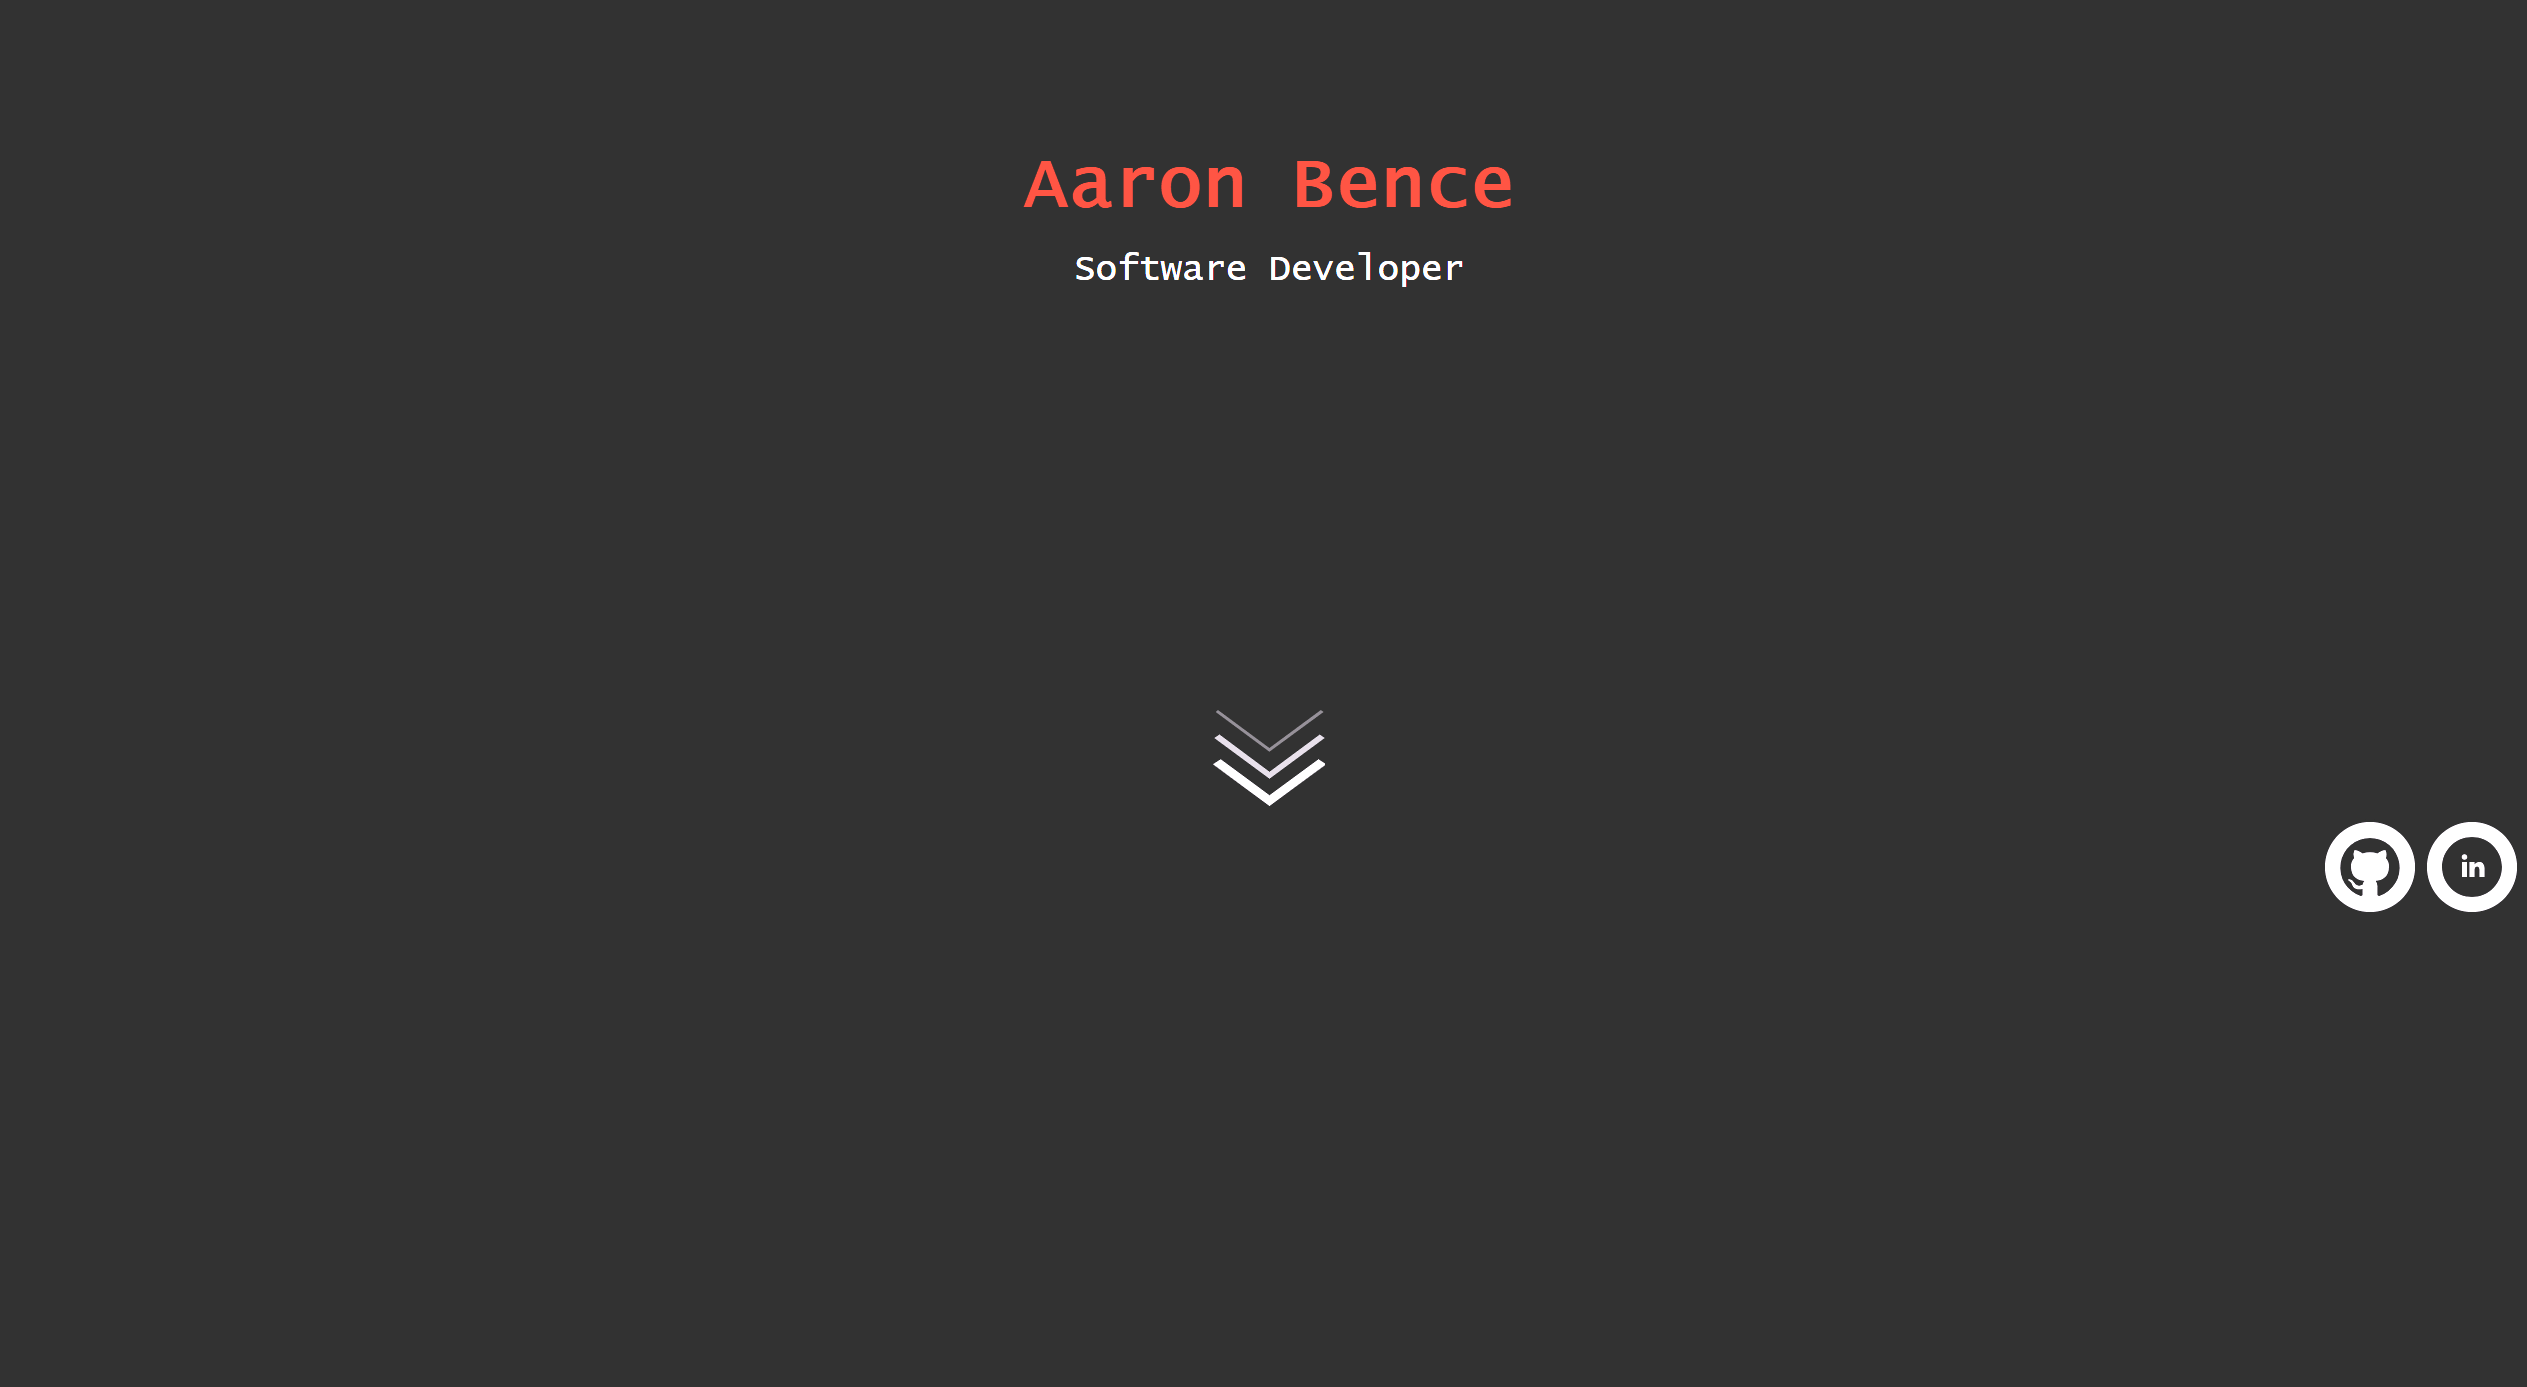
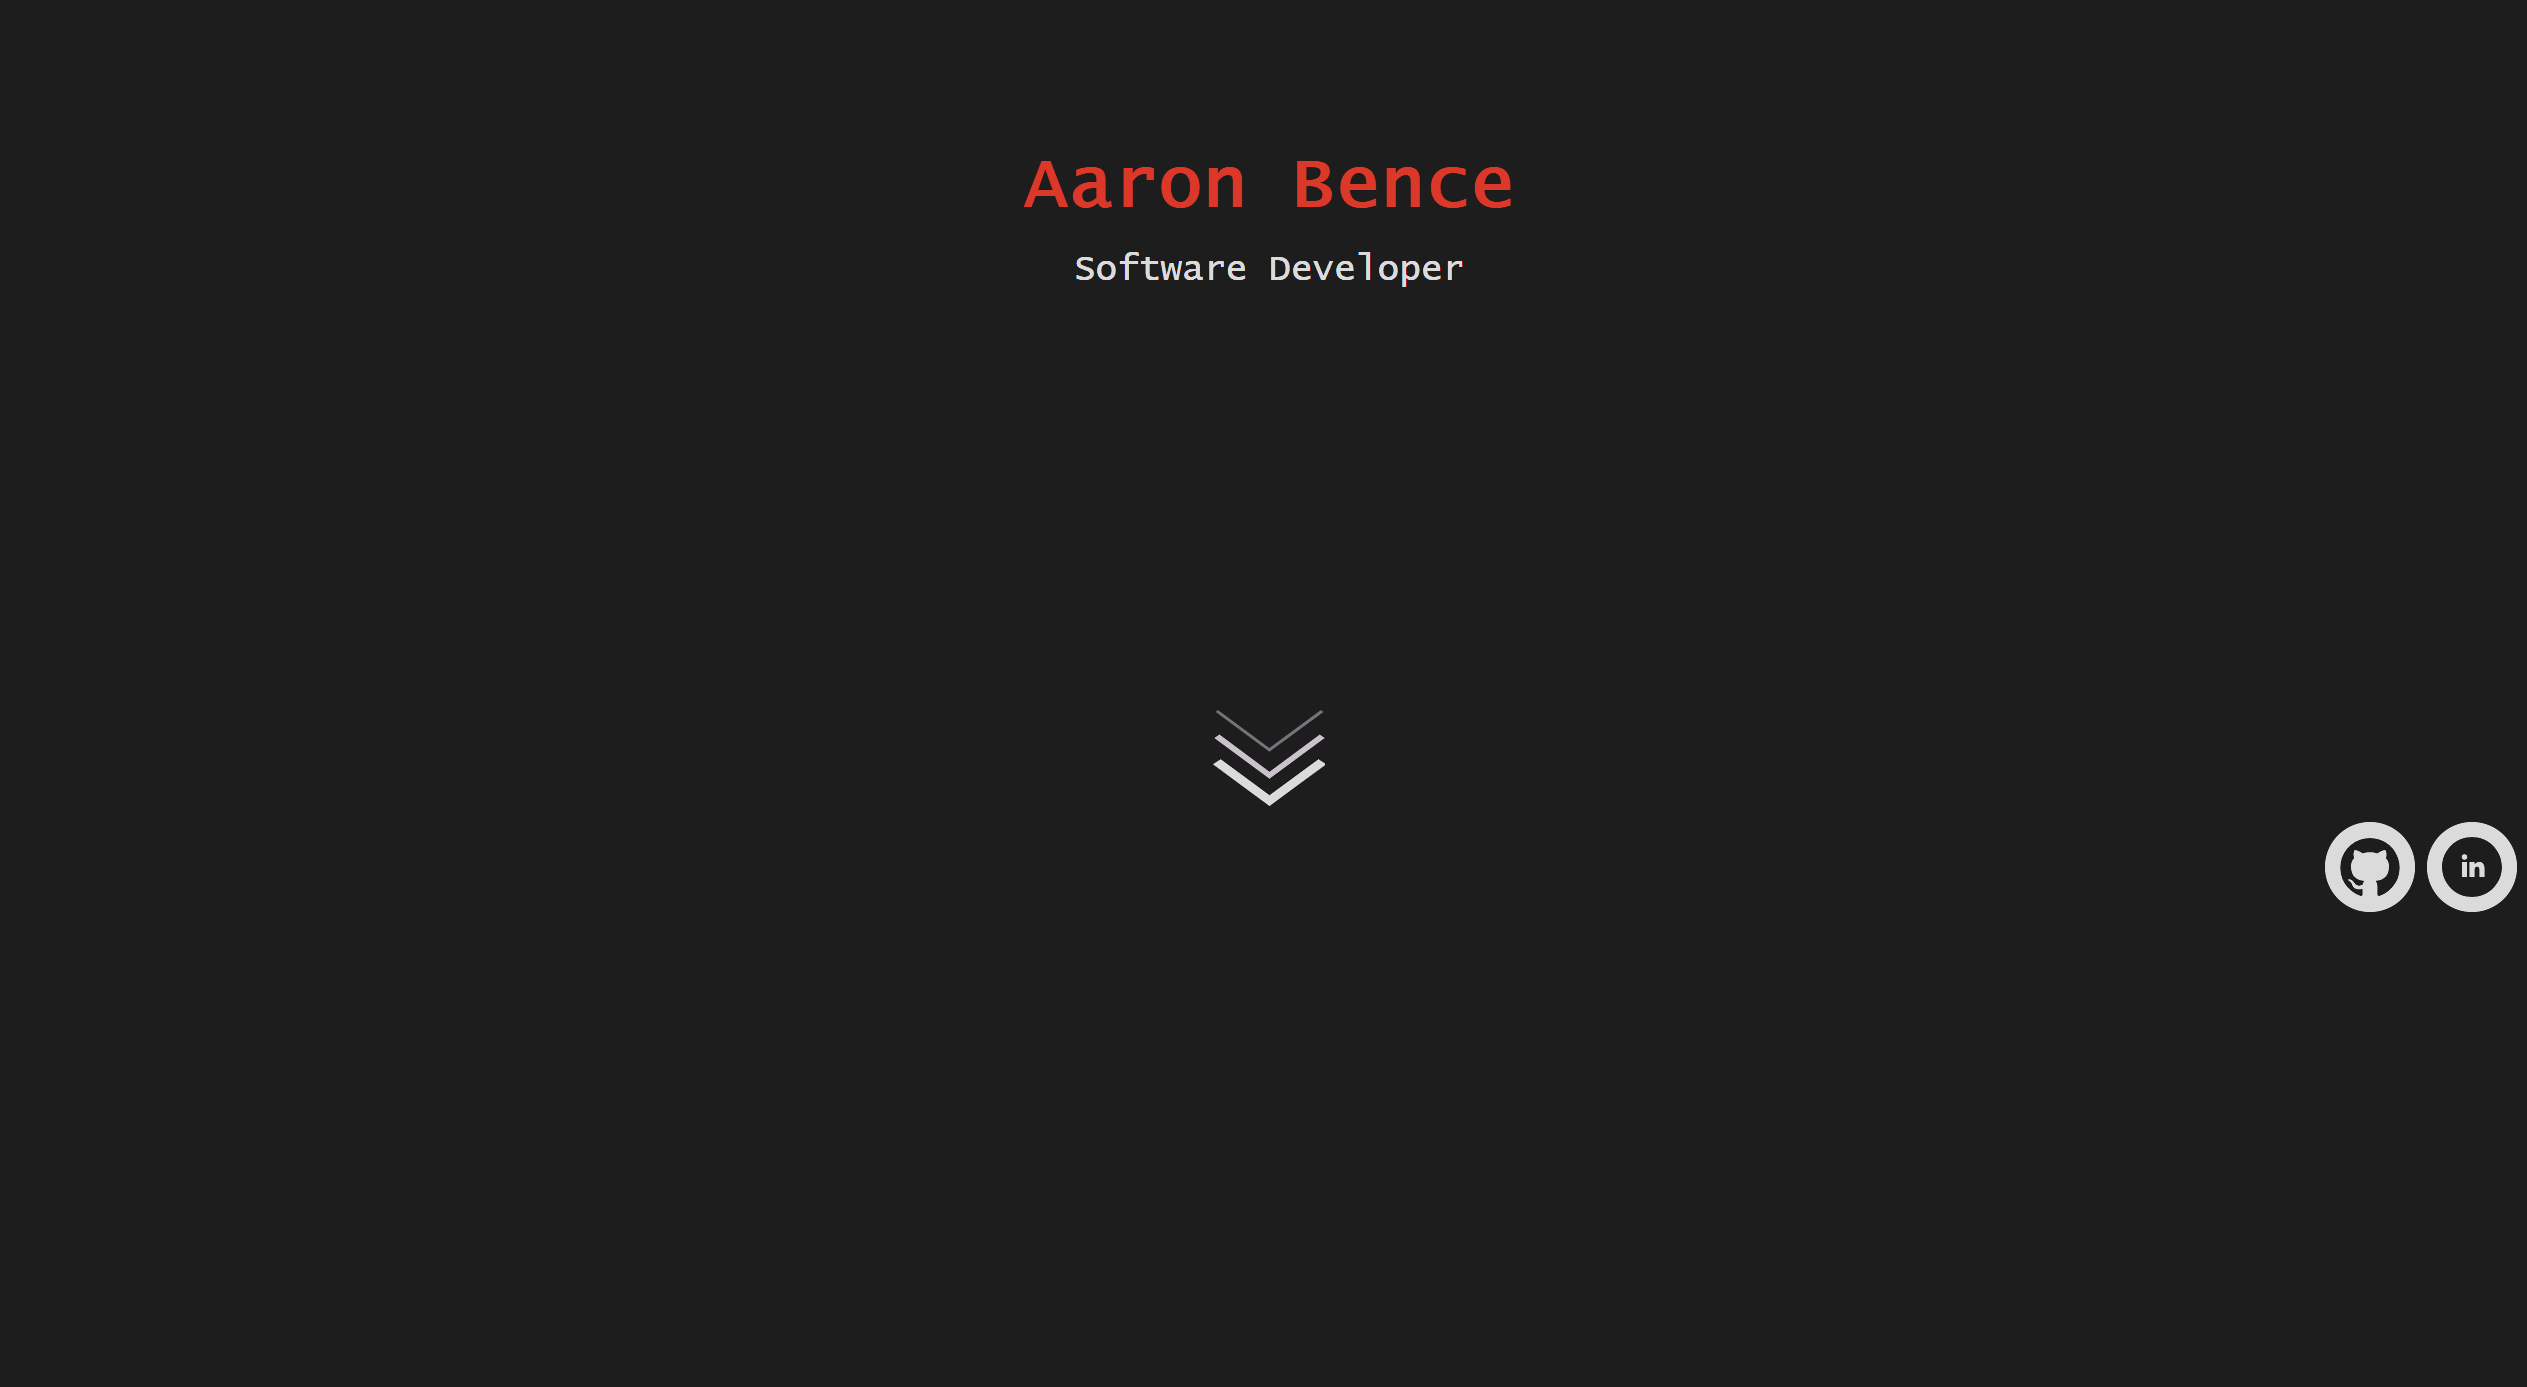
Final text and colour edits

diff --git a/src/components/ProjectList.jsx b/src/components/ProjectList.jsx
@@ -34,7 +34,7 @@ const ProjectList = () => {
                 <article
                     key={index}
                     className="
-                        project group relative bg-main-light rounded-2xl shadow-lg w-full max-w-3xl 
+                        project group relative bg-main-light rounded-2xl w-full max-w-3xl 
                         flex flex-col 
                         overflow-hidden 
                         border border-main-black
@@ -47,7 +47,7 @@ const ProjectList = () => {
                             src={project.image}
                             alt={project.title}
                             className="
-                                w-full h-64 object-cover object-[10%_15%] rounded-t-xl
+                                w-full h-64 object-cover md:object-[10%_15%] rounded-t-xl
                                 md:relative md:h-full
                             "
                         />
@@ -55,7 +55,7 @@ const ProjectList = () => {
                     {/* PROJECT INFORMATION */}
                     <div className="
                         flex flex-col justify-between p-6 w-full 
-                        md:p-10 md:min-h-[320px]
+                        md:p-10 md:px-14 md:min-h-[320px] 
                     ">
                         <h3 className="text-2xl font-bold mb-4 text-main-black">{project.title}</h3>
                         <div className="mb-4 text-base text-main-black" dangerouslySetInnerHTML={{ __html: project.description }} />
@@ -72,7 +72,7 @@ const ProjectList = () => {
                             href={project.url}
                             target="_blank"
                             rel="noopener noreferrer"
-                            className="self-start mt-2 px-5 py-2 rounded-full bg-main-accent text-main-light font-semibold border border-main-accent hover:bg-main-light hover:text-main-accent transition duration-300"
+                            className="self-start mt-8 px-5 py-2 rounded-full bg-main-accent text-main-light font-semibold border-2 border-main-black hover:bg-main-light hover:text-main-accent transition duration-300"
                         >
                             {project.type}
                         </a>

diff --git a/src/components/About.jsx b/src/components/About.jsx
@@ -22,15 +22,15 @@ const About = () => {
     }
 
     return (
-        <section id="about" className="my-8 px-4 h-screen">
+        <section id="about" className="my-8 px-4 h-[50vh]">
             <div className="max-w-4xl mx-auto text-center">
                 <h2 className="text-3xl font-semibold mb-8">About Me</h2>
                 <p className="text-lg mb-10 text-left">{data.introduction}</p>
-                <p className="mt-10 text-sm">Contact me!</p>
-                <a href={`mailto:${data.contact}`} className='hover:text-blue-500 transition duration-300'>{data.contact}</a>
+                <p className="mt-16 mb-4 text-xl">Contact</p>
+                <a href={`mailto:${data.contact}`} className=' hover:text-main-light transition duration-300'>{data.contact}</a>
                 <div className="flex justify-center gap-4 mt-4">
-                    <a href={data.linkedin} target="_blank" rel="noopener noreferrer" className="hover:text-blue-700">LinkedIn</a>
-                    <a href={data.github} target="_blank" rel="noopener noreferrer" className="hover:text-gray-700">GitHub</a>
+                    <a href={data.linkedin} target="_blank" rel="noopener noreferrer" className="hover:text-main-light">LinkedIn</a>
+                    <a href={data.github} target="_blank" rel="noopener noreferrer" className="hover:text-main-light">GitHub</a>
                 </div>
             </div>
         </section>

diff --git a/src/components/Home.jsx b/src/components/Home.jsx
@@ -4,7 +4,7 @@ const Home = () => {
   return (
     <section id='home' className="h-screen flex flex-col justify-center items-center ">
         
-        <h1 className="text-5xl font-extrabold text-main-accent">Aaron Bence</h1>
+        <h1 className="text-4xl md:text-5xl font-extrabold text-main-accent">Aaron Bence</h1>
         <p className="home-p text-2xl mt-4 text-main-light">Software Developer</p>
 
         {/* ARROW SVG */}
